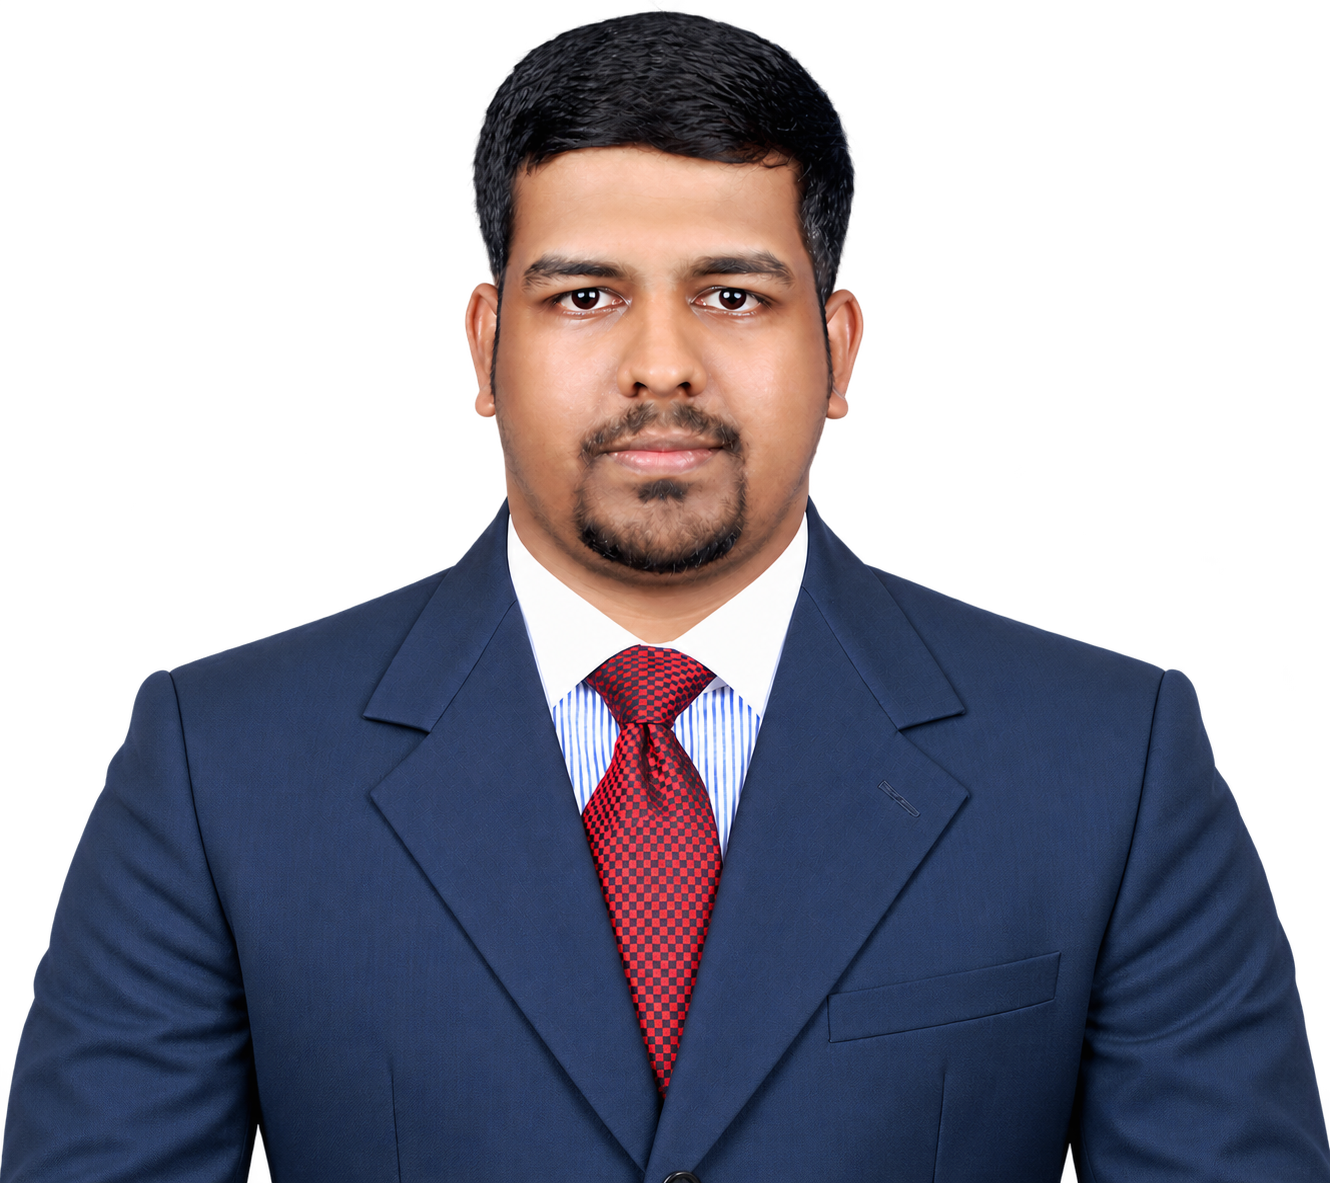
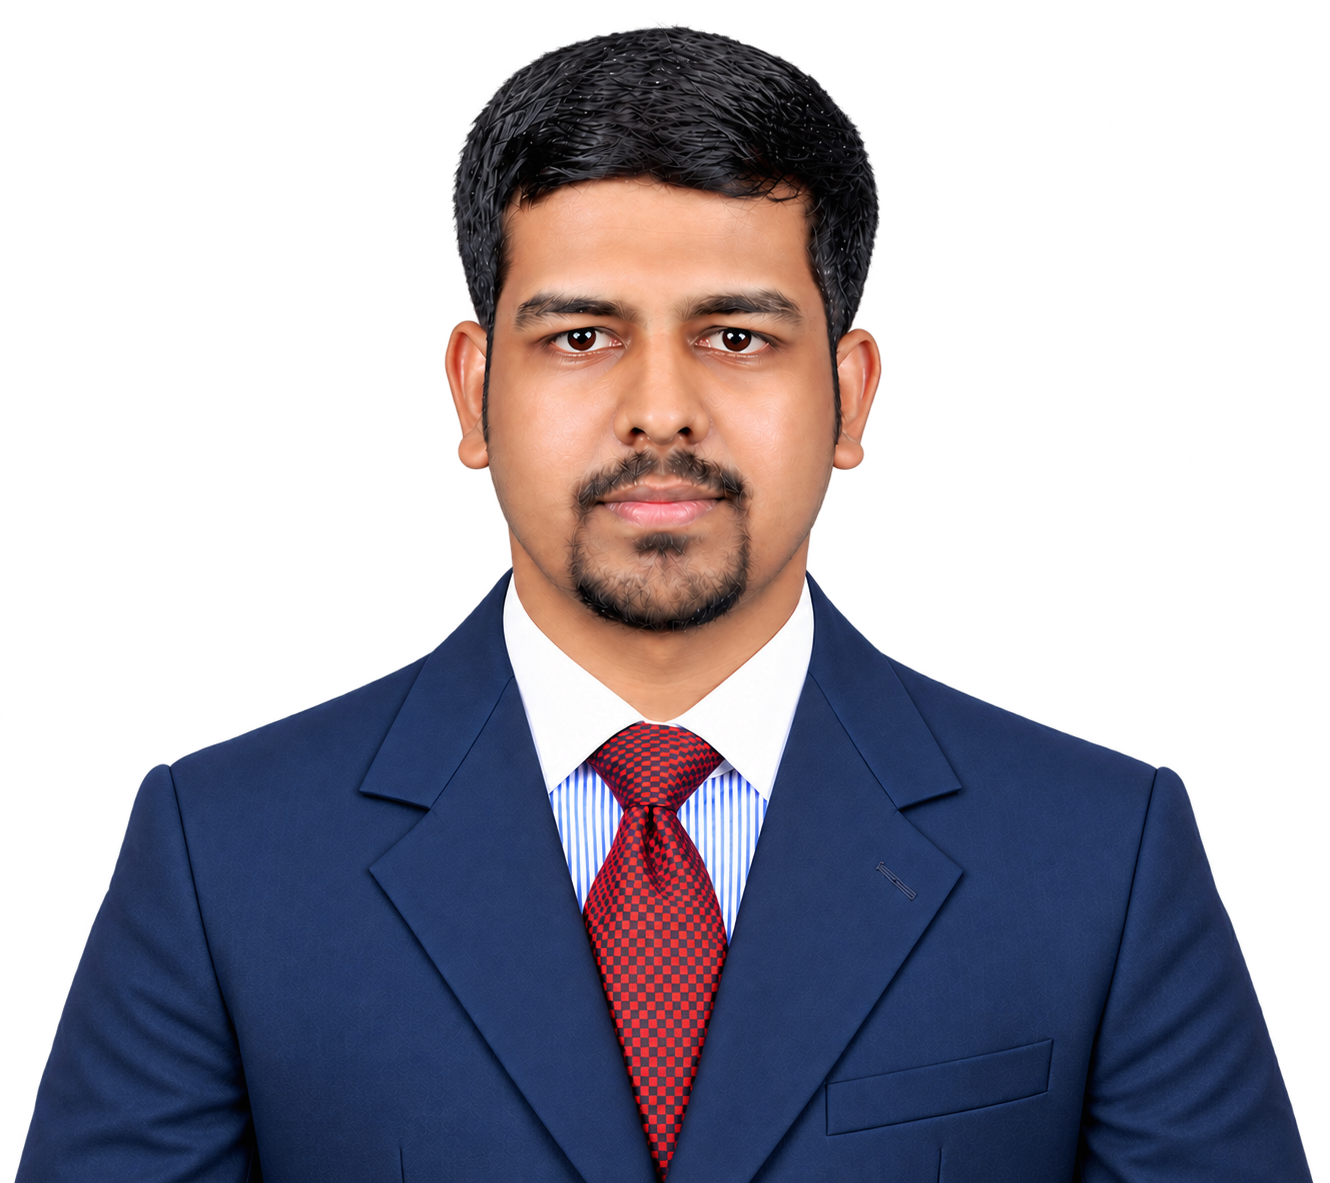
updated

diff --git a/src/App.jsx b/src/App.jsx
@@ -1085,7 +1085,7 @@ export default function App() {
   useEffect(() => {
     const image = new Image();
     image.decoding = 'async';
-    image.src = './images/facility-details/marine-jetty-new.jpeg';
+    image.src = './images/facility-details/marine-jetty.jpeg';
     if (typeof image.decode === 'function') {
       image.decode().catch(() => {});
     }

diff --git a/src/index.css b/src/index.css
@@ -1379,9 +1379,9 @@ html, body, #root {
 
 /* The Jetty photo is especially heavy; skip the costly SVG convolution filter
    so its first frame appears immediately while keeping every other facility unchanged. */
-.facility-photo-art-jetty {
+/* .facility-photo-art-jetty {
   filter: none;
-}
+} */
 
 .facility-photo-shade {
   z-index: 1;
